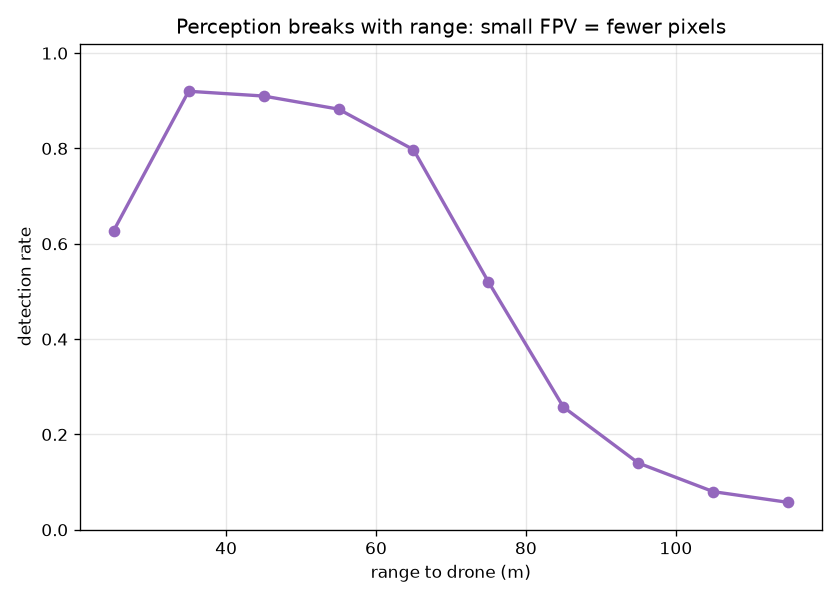
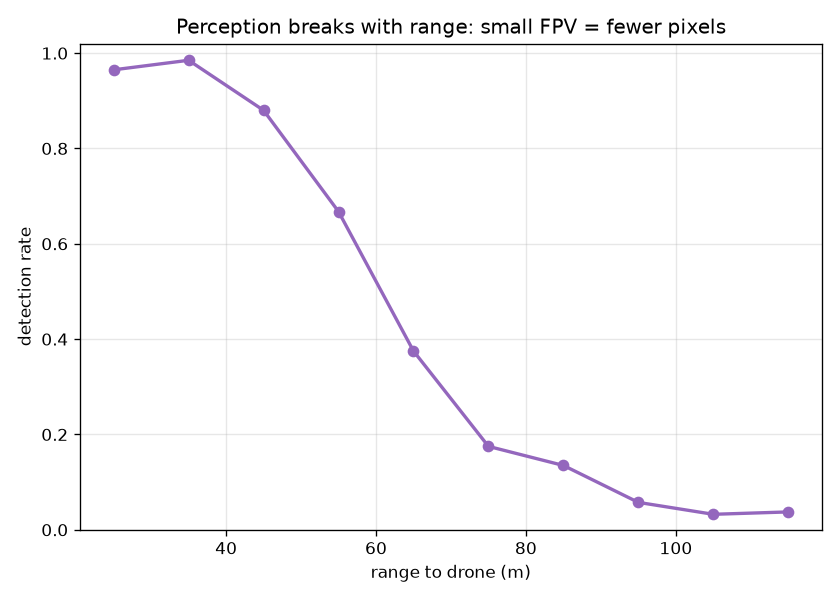
Wire detector into control loop: pinhole camera, domain randomization, DetectorSensor
- detect.py: pinhole project/backproject (barrel-slaved camera) + domain-randomized
  backgrounds (sky/ground/clouds/noise/distractors); detector retrained.
- sim.py: DetectorSensor plugs into the sensor slot; image -> CNN -> back-projected
  track -> policy. `sim.py perception` reports the end-to-end number.
- Honest result: closing the loop drops the 82% policy to 0.12 (vs 0.78 truth) --
  detector usable range ~65m << 120-180m engagement, so the camera is blind for most
  of the approach. Perception limits dominate; fix is sensor layering or memory.

diff --git a/detect.py b/detect.py
@@ -1,18 +1,23 @@
 """Perception stage: synthetic drone detection, the 'image' half of the pipeline.
 
-Renders a small grayscale camera frame with a dark drone blob whose apparent size
-falls off with range (correct 1/R physics), trains a tiny CNN to detect + locate
-it, and measures detection rate vs range. The falloff curve is the point: it shows
-where perception breaks — a small FPV at range is a handful of pixels.
+Renders a small grayscale camera frame (sky gradient, horizon/ground band, clouds,
+sensor noise, dark distractors) with a drone blob whose apparent size and contrast
+fall off with range (1/R + haze). Trains a tiny CNN to detect + locate the drone
+and measures detection rate vs range. The falloff curve is the point: a small FPV
+at range is a handful of pixels and sinks into clutter.
 
-This is the honest reading of "image RL": a separate detector feeding the fire-
-control policy, NOT pixels trained end-to-end into the controller (which never
-sees pixels in a real system, and wouldn't converge overnight).
+The camera is a pinhole slaved to the turret barrel (project/backproject), so the
+same model both renders sim geometry and lets the controller back-project a
+detection into a track. This is the honest reading of "image RL": a detector
+feeding fire control, NOT pixels trained end-to-end (a real controller consumes
+tracks, not pixels, and pixel-to-action wouldn't converge overnight).
 
     python detect.py            # train + plot detection-vs-range curve
+    python detect.py test       # fast self-checks
 
-ponytail: clean sky background, no clutter/distractors — isolates the range/size
-effect, which is the whole point. Add distractors + false-positive metrics next.
+ponytail: apparent size uses a lumped constant K (= drone_radius x focal_px), so
+it is FOV-independent — fine for a bearing sensor; decompose it if you need true
+angular size. Distractors are kept modest so the near drone still dominates.
 """
 
 import sys
@@ -21,29 +26,85 @@ import numpy as np
 
 IMG = 64
 NEAR, FAR = 20.0, 120.0     # range sweep, metres
-K_APPARENT = 120.0          # blob radius (px) = K / range  -> ~5px near, ~1px far
+K_APPARENT = 120.0          # blob radius (px) = K / range  -> ~6px near, ~1px far
 NOISE = 0.10                # sensor noise std; far blobs must beat this to be seen
+FOV = np.radians(90.0)      # camera field of view (full angle), slaved to the barrel
+F_NORM = 1.0 / (2.0 * np.tan(FOV / 2.0))   # normalized focal length
 
 
-def render_frame(rng, present=None, range_m=None):
+def _camera_basis(az, el):
+    ce = np.cos(el)
+    fwd = np.array([ce * np.cos(az), ce * np.sin(az), np.sin(el)])
+    right = np.cross(fwd, [0.0, 0.0, 1.0])
+    n = np.linalg.norm(right)
+    right = np.array([1.0, 0.0, 0.0]) if n < 1e-6 else right / n  # degenerate: looking straight up
+    up = np.cross(right, fwd)
+    return fwd, right, up
+
+
+def project(rel, az, el):
+    """Pinhole projection of a turret-relative point into the barrel-slaved camera.
+    Returns (in_view, u, v, R): u,v normalized [0,1], R range in metres."""
+    fwd, right, up = _camera_basis(az, el)
+    R = float(np.linalg.norm(rel))
+    z = float(np.dot(rel, fwd))
+    if z <= 1.0:
+        return False, 0.0, 0.0, R           # behind camera / too close
+    u = 0.5 + (float(np.dot(rel, right)) / z) * F_NORM
+    v = 0.5 - (float(np.dot(rel, up)) / z) * F_NORM
+    return (0.0 <= u <= 1.0 and 0.0 <= v <= 1.0), u, v, R
+
+
+def backproject(u, v, R, az, el):
+    """Inverse of project: pixel (u,v) + range R -> world position estimate.
+    Exact inverse when (u,v,R) are the true projection (see test)."""
+    fwd, right, up = _camera_basis(az, el)
+    d = fwd + ((u - 0.5) / F_NORM) * right + (-(v - 0.5) / F_NORM) * up
+    return R * d / (np.linalg.norm(d) + 1e-9)
+
+
+def render_frame(rng, present=None, range_m=None, uv=None, clutter=True):
     """Return (img[IMG,IMG] float01, label[present,u,v]).
 
-    Two range effects, both real: apparent size ~ 1/R, and contrast fades with
-    range (atmospheric haze). Far drones become ~1px at low contrast, so they sink
-    into sensor noise -- which is exactly why long-range detection fails."""
-    img = np.linspace(0.75, 0.55, IMG)[:, None].repeat(IMG, 1)      # sky: brighter at top
+    Domain-randomized background (sky gradient, ground band, clouds, noise) so a
+    CNN trained here generalizes; the drone is a dark blob with size ~1/R and
+    contrast fading with range (haze). Optional dark distractors add false-positive
+    pressure — at far range the ~1px drone aliases with them, which is why far
+    detection collapses."""
+    yy, xx = np.mgrid[0:IMG, 0:IMG]
+
+    # sky: randomized vertical gradient
+    top, bot = rng.uniform(0.6, 0.85), rng.uniform(0.4, 0.65)
+    img = np.linspace(top, bot, IMG)[:, None].repeat(IMG, 1)
+
+    # ground band (random horizon height + texture)
+    if rng.random() < 0.7:
+        h = int(rng.uniform(0.6, 0.95) * IMG)
+        img[h:, :] = rng.uniform(0.3, 0.6) + rng.normal(0, 0.05, (IMG - h, IMG))
+
+    # clouds: a few bright soft blobs (opposite polarity to the drone)
+    for _ in range(int(rng.integers(0, 4))):
+        cu, cv, crad = rng.uniform(0, 1) * IMG, rng.uniform(0, 0.6) * IMG, rng.uniform(6, 16)
+        img = img + rng.uniform(0.05, 0.15) * np.exp(-((xx - cu) ** 2 + (yy - cv) ** 2) / (2 * crad ** 2))
+
     img = img + rng.normal(0, NOISE, (IMG, IMG))
+
     if present is None:
-        present = rng.random() > 0.3                               # 30% empty frames
+        present = rng.random() > 0.3          # 30% empty frames
     u = v = 0.0
     if present:
+        u, v = uv if uv is not None else (rng.uniform(0.12, 0.88), rng.uniform(0.12, 0.88))
         R = range_m if range_m is not None else rng.uniform(NEAR, FAR)
         rad = float(np.clip(K_APPARENT / R, 0.6, 8.0))
         amp = 0.6 * float(np.clip((NEAR / R) ** 0.9, 0.12, 1.0))   # haze: contrast fades with range
-        u, v = rng.uniform(0.12, 0.88), rng.uniform(0.12, 0.88)
-        yy, xx = np.mgrid[0:IMG, 0:IMG]
-        blob = np.exp(-((xx - u * IMG) ** 2 + (yy - v * IMG) ** 2) / (2 * rad ** 2))
-        img = img - amp * blob                                     # drone is dark vs sky
+        img = img - amp * np.exp(-((xx - u * IMG) ** 2 + (yy - v * IMG) ** 2) / (2 * rad ** 2))
+
+    # dark distractors (birds/debris): modest, so the near drone still dominates
+    if clutter:
+        for _ in range(int(rng.integers(0, 3))):
+            du, dv, drad = rng.uniform(0, 1) * IMG, rng.uniform(0, 1) * IMG, rng.uniform(0.8, 2.2)
+            img = img - rng.uniform(0.1, 0.28) * np.exp(-((xx - du) ** 2 + (yy - dv) ** 2) / (2 * drad ** 2))
+
     return np.clip(img, 0, 1).astype(np.float32), np.array([float(present), u, v], np.float32)
 
 
@@ -74,12 +135,10 @@ def make_net():
 def _batch(rng, n=128):
     torch, _ = _torch()
     xs, ys = zip(*(render_frame(rng) for _ in range(n)))
-    x = torch.tensor(np.array(xs))[:, None]
-    y = torch.tensor(np.array(ys))
-    return x, y
+    return torch.tensor(np.array(xs))[:, None], torch.tensor(np.array(ys))
 
 
-def train_detector(steps=8000):
+def train_detector(steps=12000):
     torch, nn = _torch()
     dev = "cuda" if torch.cuda.is_available() else "cpu"
     print(f"training detector on {dev}")
@@ -96,7 +155,7 @@ def train_detector(steps=8000):
         if mask.any():
             loss = loss + 5.0 * mse(out[mask, 1:], y[mask, 1:])
         opt.zero_grad(); loss.backward(); opt.step()
-        if (i + 1) % 1000 == 0:
+        if (i + 1) % 2000 == 0:
             print(f"  step {i + 1}/{steps}  loss {loss.item():.3f}")
     torch.save(net.state_dict(), "detector.pt")
     return net, dev
@@ -116,8 +175,7 @@ def eval_vs_range(net, dev, per_bin=400, tol=0.09):
             img, lab = render_frame(rng, present=True, range_m=R)
             with torch.no_grad():
                 out = net(torch.tensor(img)[None, None].to(dev)).cpu().numpy()[0]
-            err = np.hypot(out[1] - lab[1], out[2] - lab[2])
-            if out[0] > 0 and err < tol:
+            if out[0] > 0 and np.hypot(out[1] - lab[1], out[2] - lab[2]) < tol:
                 ok += 1
         mids.append((lo + hi) / 2)
         rates.append(ok / per_bin)
@@ -144,9 +202,25 @@ def main():
 
 
 def test():
-    img, lab = render_frame(np.random.default_rng(0), present=True, range_m=40)
-    assert img.shape == (IMG, IMG) and img.min() >= 0 and img.max() <= 1
+    rng = np.random.default_rng(0)
+
+    # frame contract
+    img, lab = render_frame(rng, present=True, range_m=40)
+    assert img.shape == (IMG, IMG) and 0 <= img.min() and img.max() <= 1
     assert lab[0] == 1.0 and 0 <= lab[1] <= 1
+
+    # camera round-trip: backproject(project(p)) == p for an in-view point
+    az, el = 0.3, 0.2
+    fwd, right, up = _camera_basis(az, el)
+    p = 80 * fwd + 8 * right - 5 * up            # guaranteed in front, near axis
+    in_view, u, v, R = project(p, az, el)
+    assert in_view, "test point should be in view"
+    rec = backproject(u, v, R, az, el)
+    assert np.linalg.norm(rec - p) < 1e-3, f"camera round-trip off by {np.linalg.norm(rec - p)}"
+
+    # a point behind the camera is not in view
+    assert not project(-p, az, el)[0]
+
     net = make_net()
     torch, _ = _torch()
     assert net(torch.zeros(2, 1, IMG, IMG)).shape == (2, 3)

diff --git a/sim.py b/sim.py
@@ -81,8 +81,8 @@ class World:
         if sensor is None:                               # clean: perfect detection, light noise
             pos = self.drone + rng.normal(0, OBS_NOISE, 3)
             vel = self.drone_vel + rng.normal(0, 1.0, 3)
-        else:                                            # degraded: dropout + latency + range-scaled noise
-            pos, vel = sensor.measure(self.drone, self.drone_vel, rng)
+        else:                                            # sensor model (degraded track or image detector)
+            pos, vel = sensor.measure(self, rng)
         return np.concatenate([
             pos / 200.0, vel / 50.0,
             [np.sin(self.az), np.cos(self.az), self.el,
@@ -154,13 +154,14 @@ class Sensor:
         self.latency, self.p_drop = latency, p_drop
         self.noise0, self.ref = noise0, ref_range
 
-    def reset(self, pos, vel):
+    def reset(self, world, rng):
+        pos, vel = world.drone, world.drone_vel
         self.buf = deque([(pos.copy(), vel.copy())] * (self.latency + 1),
                          maxlen=self.latency + 1)
         self.last = (pos.copy(), vel.copy())
 
-    def measure(self, true_pos, true_vel, rng):
-        self.buf.append((true_pos.copy(), true_vel.copy()))
+    def measure(self, world, rng):
+        self.buf.append((world.drone.copy(), world.drone_vel.copy()))
         dpos, dvel = self.buf[0]                          # delayed by `latency` ticks
         k = np.linalg.norm(dpos) / self.ref              # range factor: worse far away
         if rng.random() < min(0.9, self.p_drop * (1 + k)):
@@ -171,24 +172,59 @@ class Sensor:
         return m
 
 
+class DetectorSensor:
+    """Image-based track: render the barrel-slaved camera frame, run the CNN
+    detector, back-project its bearing (+ rangefinder range) to a 3D position,
+    finite-difference velocity. Radar-cued at reset; holds the last track on a
+    miss. Plugs into the same env slot as Sensor (reset/measure -> pos, vel).
+    ponytail: single-env only (holds tracker state); use a factory for vec-envs."""
+
+    def __init__(self, path="detector.pt"):
+        import torch
+        import detect
+        self.torch, self.detect = torch, detect
+        self.dev = "cuda" if torch.cuda.is_available() else "cpu"
+        self.net = detect.make_net().to(self.dev)
+        self.net.load_state_dict(torch.load(path, map_location=self.dev))
+        self.net.eval()
+
+    def reset(self, world, rng):
+        self.est = world.drone + rng.normal(0, 5.0, 3)   # radar cue: coarse, camera refines
+        self.vel = world.drone_vel.copy()
+
+    def measure(self, world, rng):
+        det = self.detect
+        in_view, u, v, R = det.project(world.drone, world.az, world.el)
+        img, _ = det.render_frame(rng, present=in_view, range_m=R,
+                                  uv=(u, v) if in_view else None)
+        with self.torch.no_grad():
+            out = self.net(self.torch.tensor(img)[None, None].to(self.dev)).cpu().numpy()[0]
+        if in_view and out[0] > 0:                        # detected
+            Rn = R + rng.normal(0, 0.05 * R)             # rangefinder range (monocular can't range -> fuse)
+            new = det.backproject(out[1], out[2], Rn, world.az, world.el)
+            self.vel = 0.6 * self.vel + 0.4 * (new - self.est) / DT   # ponytail: EMA, a real tracker filters
+            self.est = new
+        return self.est, self.vel                         # miss -> hold last track
+
+
 class TurretEnv(gym.Env):
     """Agent = turret. Opponent drone: scripted (None) or a frozen PPO policy."""
 
     metadata = {"render_modes": []}
 
-    def __init__(self, opponent_drone=None, degrade=False):
+    def __init__(self, opponent_drone=None, degrade=False, sensor=None):
         self.observation_space = spaces.Box(-np.inf, np.inf, (11,), np.float32)
         self.action_space = spaces.Box(-1.0, 1.0, (3,), np.float32)  # az rate, el rate, fire>0
         self.opponent = opponent_drone
         self.world = World()
-        self.sensor = Sensor() if degrade else None
+        self.sensor = sensor if sensor is not None else (Sensor() if degrade else None)
         self._freeze_drone = False  # test hook
 
     def reset(self, seed=None, options=None):
         super().reset(seed=seed)
         self.world.reset(self.np_random)
         if self.sensor is not None:
-            self.sensor.reset(self.world.drone, self.world.drone_vel)
+            self.sensor.reset(self.world, self.np_random)
         return self.world.turret_obs(self.np_random, self.sensor), {}
 
     def _drone_accel(self):
@@ -249,9 +285,9 @@ class DroneEnv(gym.Env):
         return self.world.drone_obs(), reward, terminated, trunc, {"reached": reached}
 
 
-def hit_rate(turret_model, drone_model=None, episodes=100, degrade=False):
+def hit_rate(turret_model, drone_model=None, episodes=100, degrade=False, sensor=None):
     """Turret interception rate against the given drone (scripted if None)."""
-    env = TurretEnv(opponent_drone=drone_model, degrade=degrade)
+    env = TurretEnv(opponent_drone=drone_model, degrade=degrade, sensor=sensor)
     hits = 0
     for i in range(episodes):
         obs, _ = env.reset(seed=2000 + i)
@@ -306,6 +342,16 @@ def train(steps=300_000):
 def evaluate():
     from stable_baselines3 import PPO
     print(f"hit rate: {hit_rate(PPO.load('turret_ppo')):.2f}")
+
+
+def eval_perception(episodes=50):
+    """End-to-end perception-in-the-loop: image -> CNN detector -> back-projected
+    track -> the existing turret policy. The honest 'trained on images' number."""
+    from stable_baselines3 import PPO
+    turret = PPO.load("turret_ppo")
+    truth = hit_rate(turret, episodes=episodes)
+    percept = hit_rate(turret, episodes=episodes, sensor=DetectorSensor())
+    print(f"perception-in-the-loop hit rate: {percept:.2f}  (vs {truth:.2f} ground-truth)")
 
 
 def degrade_benchmark(steps=2_000_000):
@@ -520,5 +566,7 @@ if __name__ == "__main__":
         selfplay(arg or 4)
     elif cmd == "degrade":
         degrade_benchmark(arg or 2_000_000)
+    elif cmd == "perception":
+        eval_perception(arg or 50)
     else:
         test()

diff --git a/README.md b/README.md
@@ -41,11 +41,24 @@ That's a real experimental result, reported as it came out:
 ![sensing](degrade.png)
 
 **Perception breaks with range.** The turret consumes a *track*, not pixels — the
-"find the drone" problem is a separate detector. A small CNN on synthetic camera
-frames holds ~90% detection in a 35–65 m sweet spot and collapses past ~70 m as
-the drone shrinks toward a single low-contrast pixel and sinks into sensor noise:
+"find the drone" problem is a separate CNN detector trained on domain-randomized
+synthetic frames (sky, ground band, clouds, noise, dark distractors). Detection is
+near-perfect up close (0.96–0.98 at 25–45 m) and collapses past ~65 m as the drone
+shrinks toward a single low-contrast pixel and sinks into clutter:
 
 ![detection](detection.png)
+
+**Closing the loop is where it gets honest.** Wiring the detector in as the turret's
+actual sensor (`DetectorSensor`: render → CNN → back-projected bearing + rangefinder
+range → track) drops the 82% policy to **0.12** (vs 0.78 on ground-truth). The cause
+is diagnostic, not a bug: the detector's usable range (~65 m) is *far shorter than the
+120–180 m engagement*, so the barrel-slaved camera is blind for most of the approach,
+and a policy trained on full-state info can't recover in the ~2 s terminal window once
+the drone finally becomes visible. Same lesson as the sensor benchmark: **perception
+limits dominate — you can't bolt a realistic sensor onto an idealized policy for free.**
+The real fixes are sensor *layering* (radar for early track, EO for terminal refinement,
+which is how real C-UAS works) or retraining the controller on the detector with memory.
+Reported as it came out — run it with `python sim.py perception`.
 
 ## How the stages fit
 
@@ -69,7 +82,8 @@ python sim.py eval               # interception rate over 100 episodes
 python sim.py watch              # render an episode -> episode.gif
 python sim.py selfplay [rounds]  # arms race -> selfplay.png
 python sim.py degrade [steps]    # perfect-vs-degraded-sensing benchmark -> degrade.png
-python detect.py                 # perception stage -> detection.png
+python sim.py perception         # detector-in-the-loop hit rate (image -> track -> policy)
+python detect.py                 # train perception stage -> detection.png + detector.pt
 ```
 
 ## Scope & non-goals
@@ -85,6 +99,8 @@ Deliberate boundaries, stated up front:
   renderer is a stylized demo on purpose.
 - **Physics is point-mass**, not rotor-level 6-DOF — it captures the target
   motion envelope the turret cares about, not blade aerodynamics.
-- **A fuller perception pipeline would** train the detector on real anti-UAV
-  imagery (Anti-UAV, Drone-vs-Bird) instead of synthetic frames, add clutter and
-  false-positive metrics, and fuse detector output into the live control loop.
+- **The detector is fused into the live control loop** (`sim.py perception`), which
+  exposed the range-mismatch problem above. A fuller pipeline would train it on real
+  anti-UAV imagery (Anti-UAV, Drone-vs-Bird) instead of synthetic frames, add
+  false-positive metrics, layer a longer-range sensor for early track, and retrain
+  the controller (with memory) on the fused sensor.